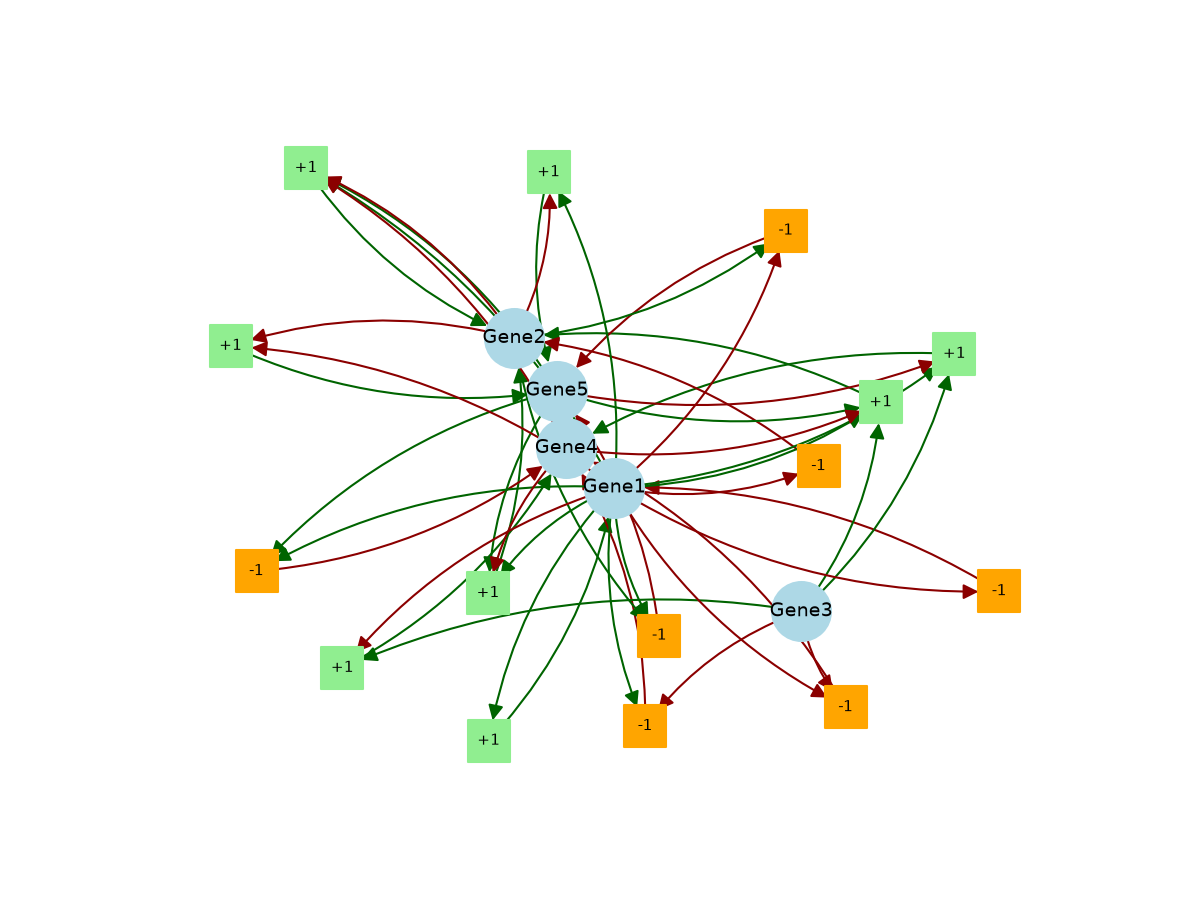
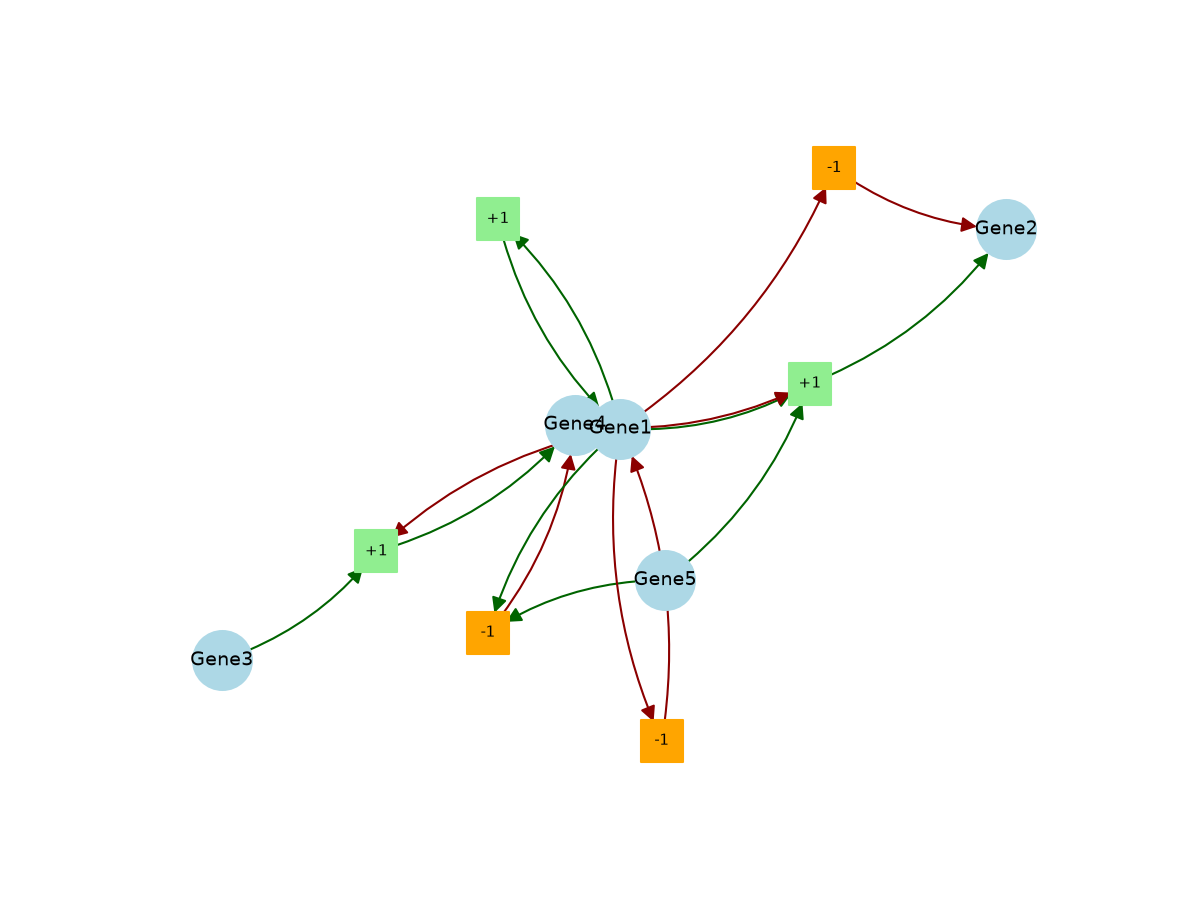
Fixed cellcycle issue

diff --git a/example/reproduce_vignette_experiment.py b/example/reproduce_vignette_experiment.py
@@ -77,6 +77,7 @@ def main():
         network_only=True,
         verbose=False,
     )
+    print(f"Generated FBN network: {fbn_network}")
     summary_lines = ["Mined FBN network interactions:"]
     for gene, rules in fbn_network["interactions"].items():
         for name, rule in (rules.items() if isinstance(rules, dict) else enumerate(rules)):
